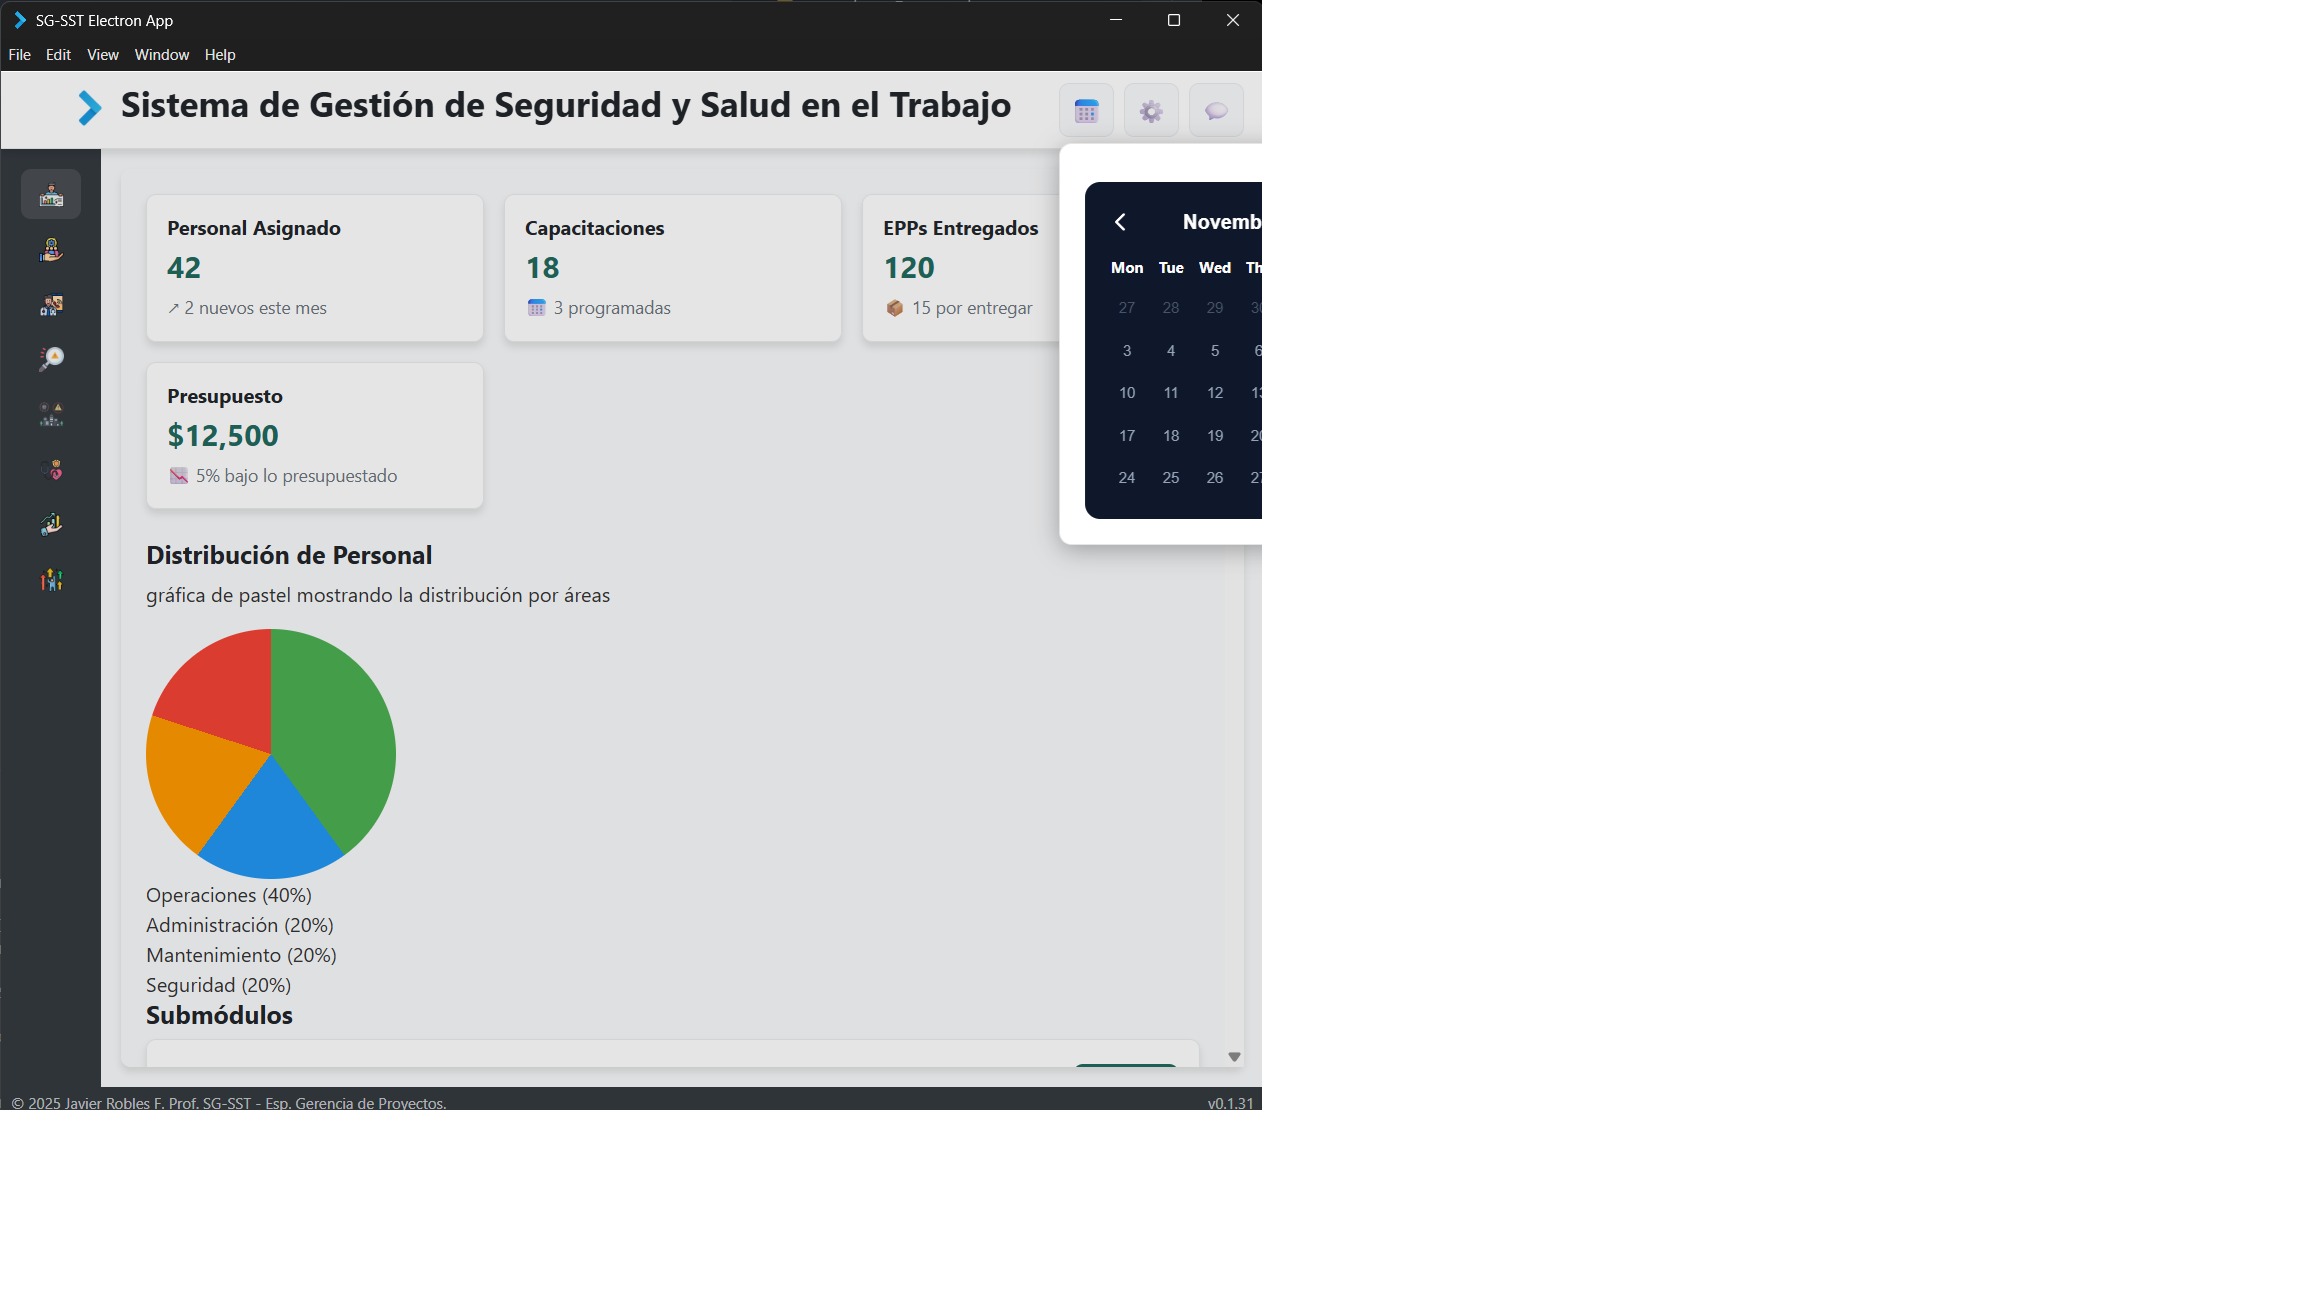
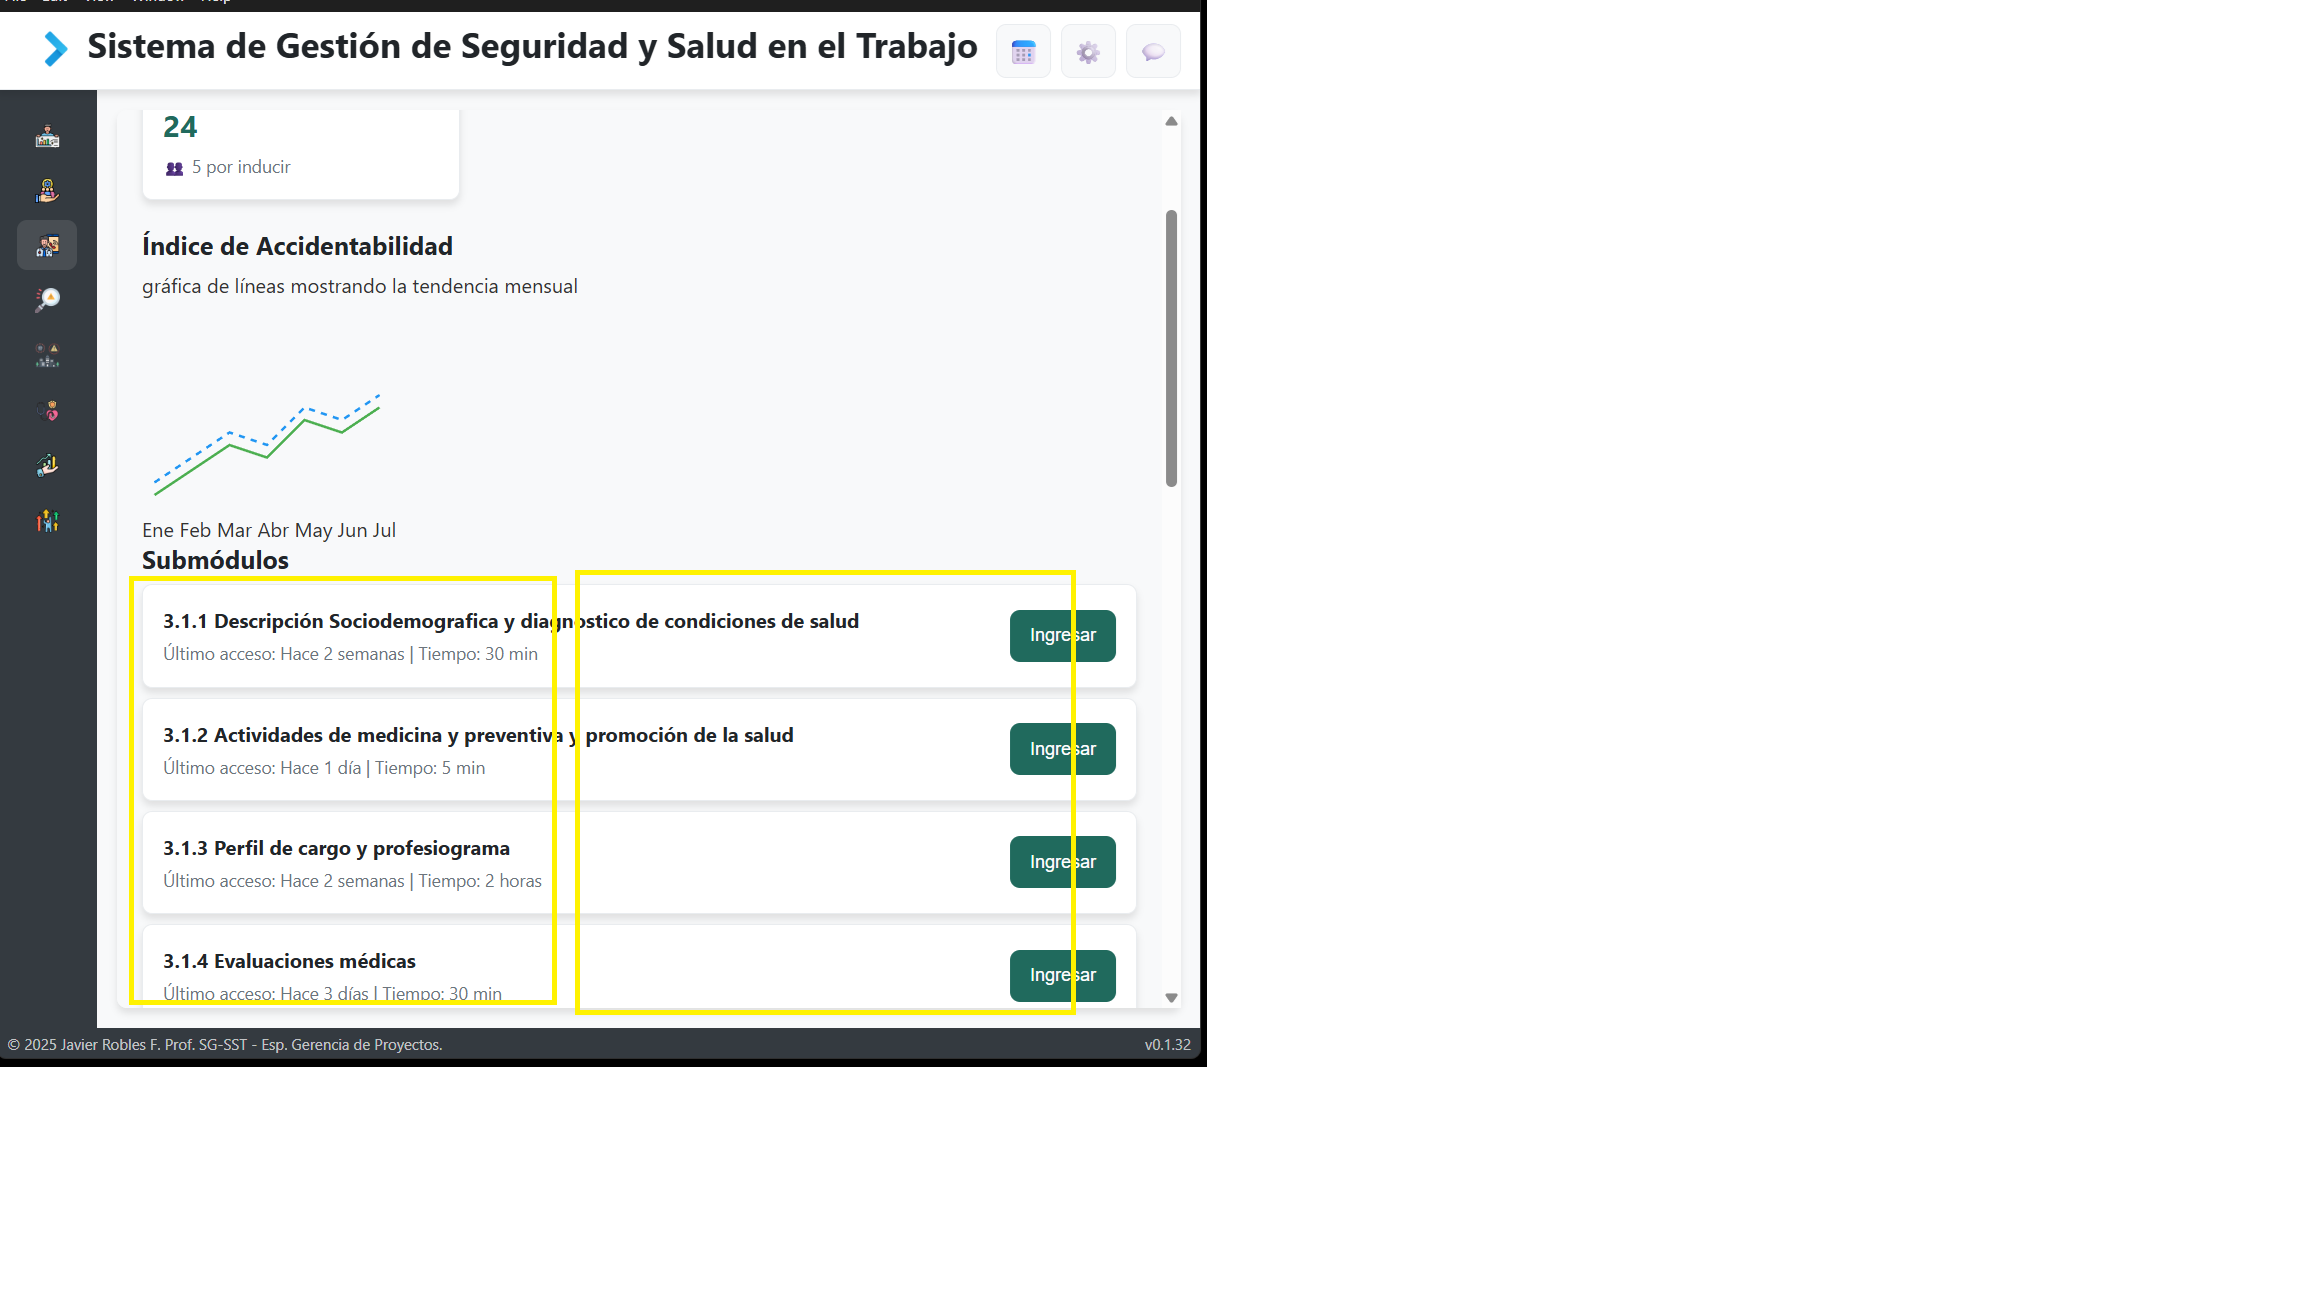
⚡11 # Ajuste de visualziacion de las tarjetas de los sub modulos que contiene los modulos principales.
✍ Escribe una breve descripción del cambio en la primera línea (menos de 50 caracteres).

1.  Implementar diseño responsive para tarjetas de submódulos
2. Las tarjetas ahora se muestran en múltiples columnas que se adaptan al tamaño de la ventana, cambiando de 1 columna en móviles a 2 o más columnas en pantallas grandes. Se mantiene el diseño visual original y se utiliza CSS Grid para lograr la distribución responsive.

diff --git a/sgsst-electron-app/development-styles.css b/sgsst-electron-app/development-styles.css
@@ -526,6 +526,20 @@
   box-shadow: var(--box-shadow-lg);
 }
 
+.submodules-list {
+  display: grid;
+  grid-template-columns: repeat(auto-fit, minmax(300px, 1fr));
+  gap: var(--spacer);
+  margin-top: var(--spacer);
+}
+
+/* Estilos responsivos para dispositivos móviles */
+@media (max-width: 768px) {
+  .submodules-list {
+    grid-template-columns: 1fr; /* Una columna en móviles */
+  }
+}
+
 .submodule-info {
   flex-grow: 1;
   margin-right: var(--spacer);
@@ -788,6 +802,20 @@
 .submodule-item:hover {
   transform: translateY(-2px);
   box-shadow: var(--box-shadow-lg);
+}
+
+.submodules-list {
+  display: grid;
+  grid-template-columns: repeat(auto-fit, minmax(300px, 1fr));
+  gap: var(--spacer);
+  margin-top: var(--spacer);
+}
+
+/* Estilos responsivos para dispositivos móviles */
+@media (max-width: 768px) {
+  .submodules-list {
+    grid-template-columns: 1fr; /* Una columna en móviles */
+  }
 }
 
 .submodule-info {
